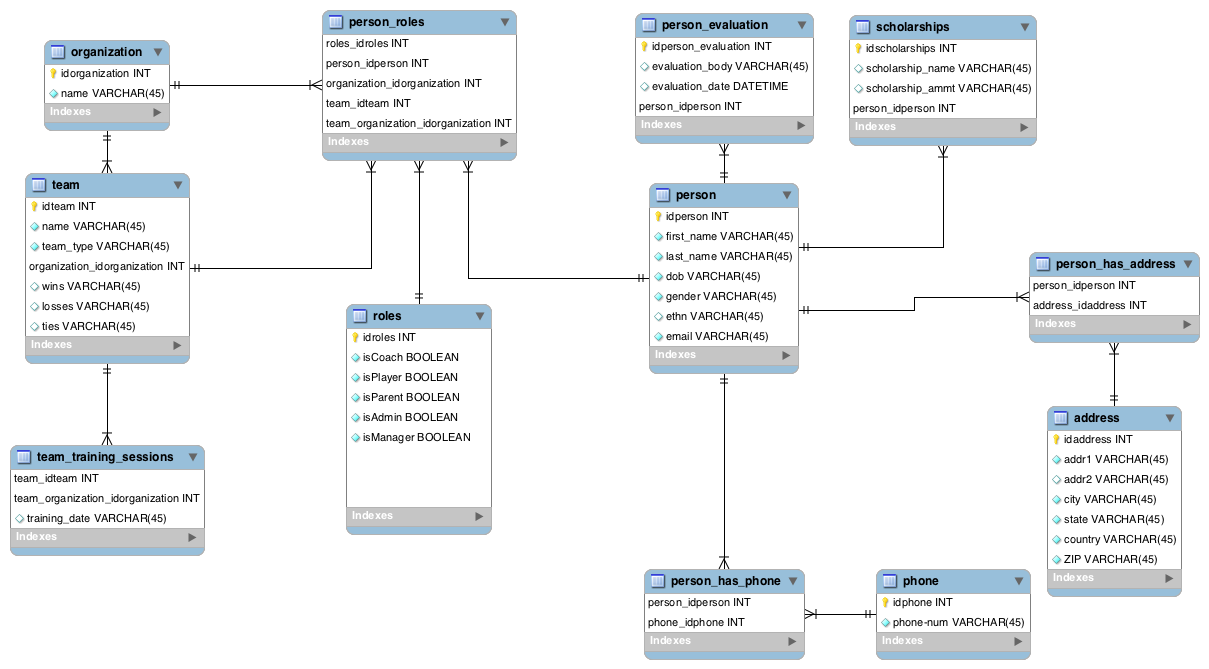
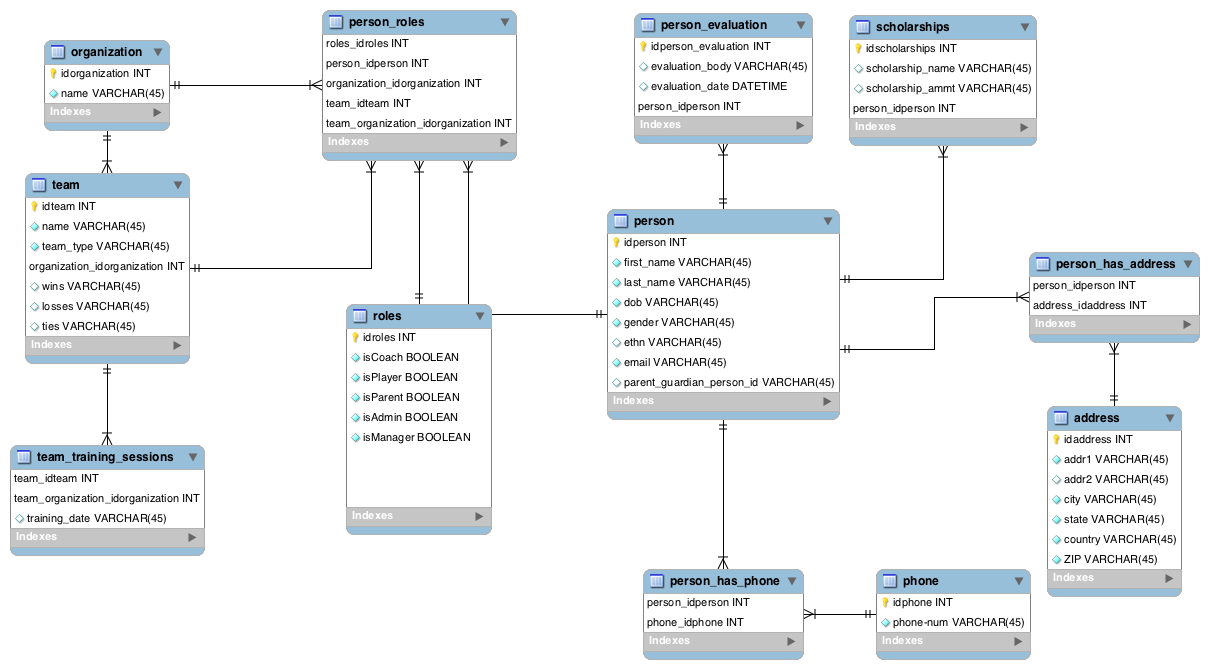
Added parent_guardian field on Person

diff --git a/artifacts/artifacts.md b/artifacts/artifacts.md
@@ -55,6 +55,7 @@ Person/User of this database.
 * gender - Gender
 * ethn - Ethnicity
 * email - Person's e-mail
+* parent_guardian_person_id - Possibly null, but a referenced Person ID to one's parent or legal guardian.
 
 ##Scholarships (scholarships)
 Scholarships a person may hold.
